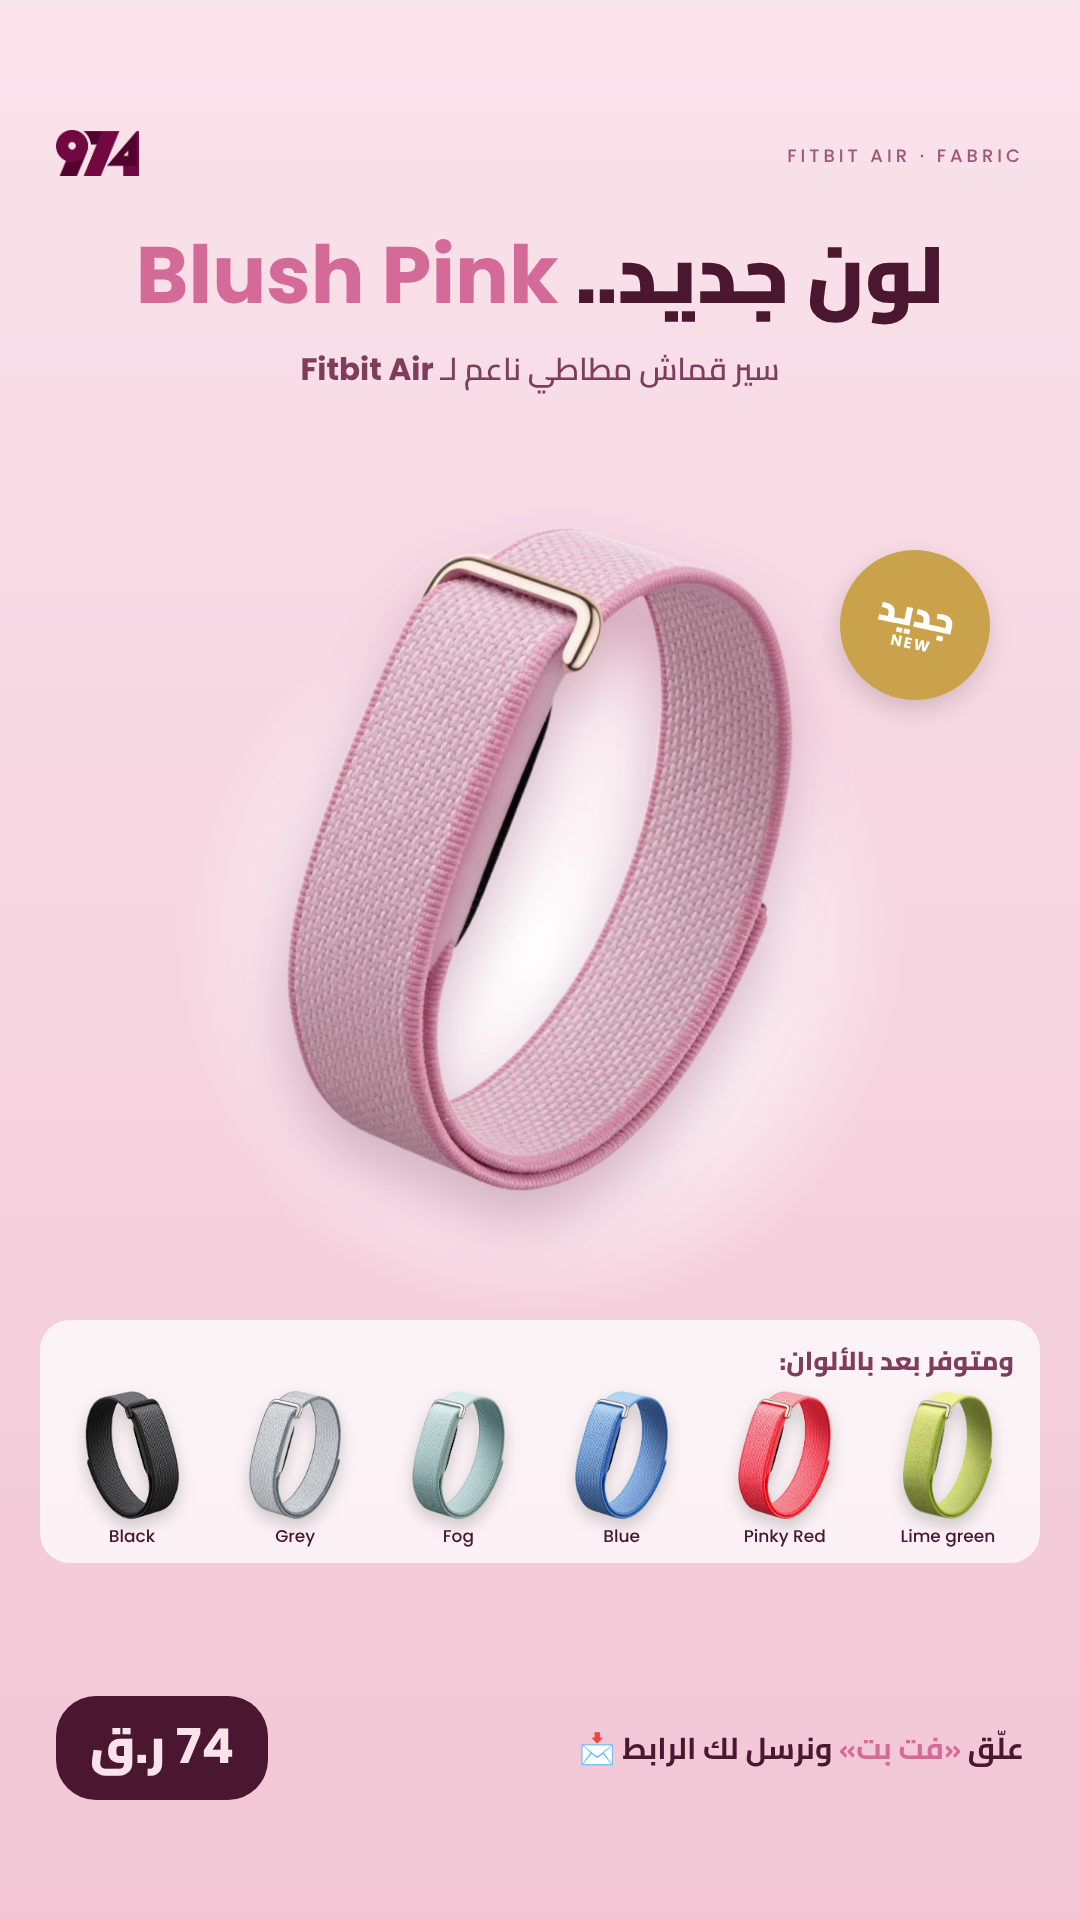
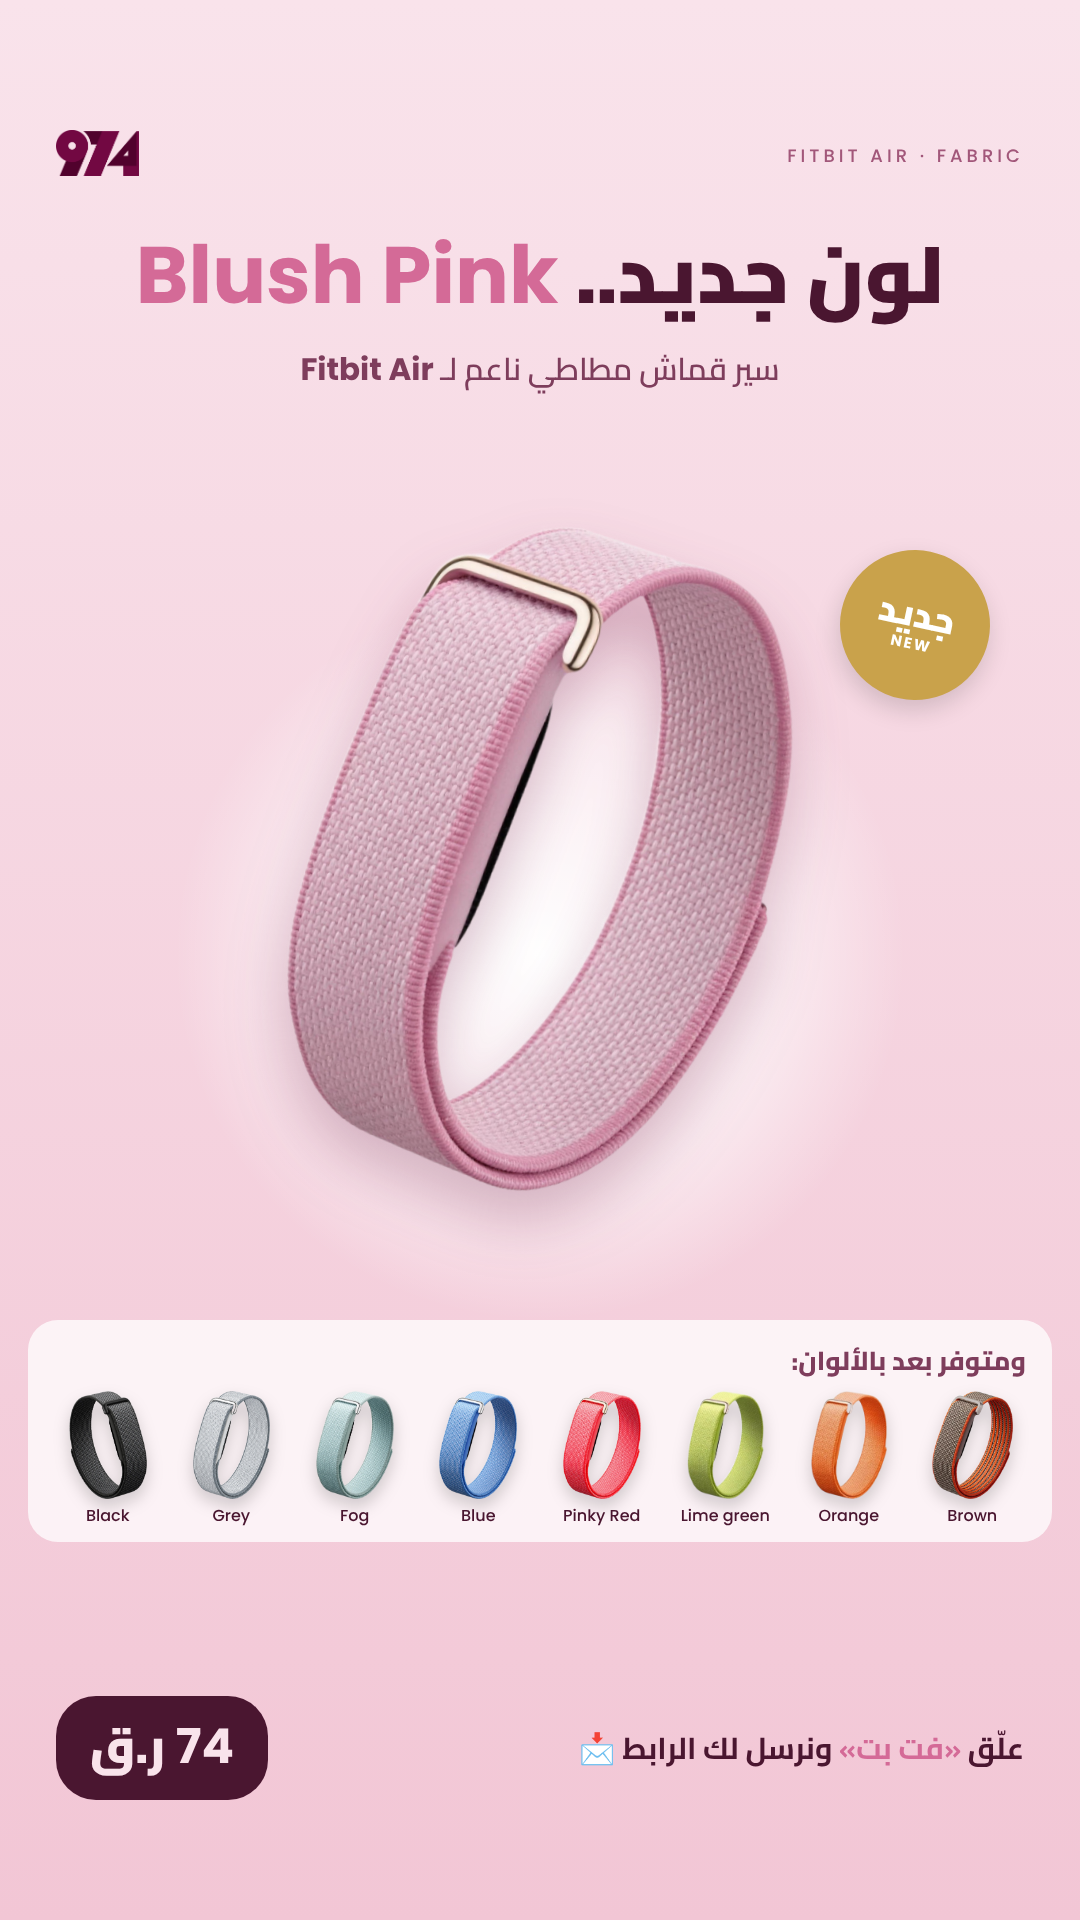
Fitbit fabric blush design: all in-stock colours
Claude-Session: https://claude.ai/code/session_01K6HDWNrArsGSJekW1VcEzV

Changed region(s): [[0.0, 0.6875, 0.9778, 0.8125]]

diff --git a/posts/2026-11/fitbit-fabric-blush/974-fitbit-fabric-blush-story.html b/posts/2026-11/fitbit-fabric-blush/974-fitbit-fabric-blush-story.html
@@ -15,12 +15,12 @@ h1 b{font-family:Poppins;font-weight:700;color:#D46A97}
 .hero{position:absolute;left:50%;top:520px;height:672.4px;transform:translateX(-50%) rotate(6deg);filter:drop-shadow(0 30px 28px rgba(110,30,70,.28))}
 .new{position:absolute;top:550px;right:90px;width:150px;height:150px;border-radius:50%;background:#C9A24B;color:#fff;display:flex;flex-direction:column;align-items:center;justify-content:center;transform:rotate(12deg);box-shadow:0 10px 24px rgba(0,0,0,.15)}
 .new b{font-weight:900;font-size:36px;line-height:1} .new s{text-decoration:none;font-family:Poppins;font-weight:700;font-size:15px;letter-spacing:2px}
-.strip{position:absolute;left:40px;right:40px;top:1320px;background:rgba(255,255,255,.75);border-radius:30px;padding:16px 18px 14px}
+.strip{position:absolute;left:28px;right:28px;top:1320px;background:rgba(255,255,255,.75);border-radius:30px;padding:16px 18px 14px}
 .strip h3{direction:rtl;text-align:right;font-weight:800;font-size:26px;margin:0 8px 6px;color:#7E3D5C}
 .row{display:flex;justify-content:space-between}
-.o{display:flex;flex-direction:column;align-items:center;width:148px}
-.o img{height:128px;max-width:138px;object-fit:contain;filter:drop-shadow(0 8px 8px rgba(0,0,0,.18))}
-.o span{font-family:Poppins;font-weight:500;font-size:17px;margin-top:4px;white-space:nowrap}
+.o{display:flex;flex-direction:column;align-items:center;width:126px}
+.o img{height:108px;max-width:118px;object-fit:contain;filter:drop-shadow(0 8px 8px rgba(0,0,0,.18))}
+.o span{font-family:Poppins;font-weight:500;font-size:16px;margin-top:4px;white-space:nowrap}
 .foot{position:absolute;left:56px;right:56px;bottom:120px;display:flex;justify-content:space-between;align-items:center;direction:rtl}
 .price{background:#4A1630;color:#F9E3EB;border-radius:40px;padding:4px 34px 10px;font-weight:900;font-size:48px}
 .price b{font-family:Poppins}
@@ -33,6 +33,6 @@ h1 b{font-family:Poppins;font-weight:700;color:#D46A97}
 <div class="disc"></div>
 <img class="hero" src="file:///home/claude/974-social/products/fitbit-fabric-blush/src/blush-crop.png">
 <div class="new"><b>جديد</b><s>NEW</s></div>
-<div class="strip"><h3>ومتوفر بعد بالألوان:</h3><div class="row"><div class="o"><img src="file:///home/claude/974-social/products/fitbit-fabric-blush/src/black-crop.png"><span>Black</span></div><div class="o"><img src="file:///home/claude/974-social/products/fitbit-fabric-blush/src/grey-crop.png"><span>Grey</span></div><div class="o"><img src="file:///home/claude/974-social/products/fitbit-fabric-blush/src/fog-crop.png"><span>Fog</span></div><div class="o"><img src="file:///home/claude/974-social/products/fitbit-fabric-blush/src/blue-crop.png"><span>Blue</span></div><div class="o"><img src="file:///home/claude/974-social/products/fitbit-fabric-blush/src/pinky-red-crop.png"><span>Pinky Red</span></div><div class="o"><img src="file:///home/claude/974-social/products/fitbit-fabric-blush/src/lime-crop.png"><span>Lime green</span></div></div></div>
+<div class="strip"><h3>ومتوفر بعد بالألوان:</h3><div class="row"><div class="o"><img src="file:///home/claude/974-social/products/fitbit-fabric-blush/src/black-crop.png"><span>Black</span></div><div class="o"><img src="file:///home/claude/974-social/products/fitbit-fabric-blush/src/grey-crop.png"><span>Grey</span></div><div class="o"><img src="file:///home/claude/974-social/products/fitbit-fabric-blush/src/fog-crop.png"><span>Fog</span></div><div class="o"><img src="file:///home/claude/974-social/products/fitbit-fabric-blush/src/blue-crop.png"><span>Blue</span></div><div class="o"><img src="file:///home/claude/974-social/products/fitbit-fabric-blush/src/pinky-red-crop.png"><span>Pinky Red</span></div><div class="o"><img src="file:///home/claude/974-social/products/fitbit-fabric-blush/src/lime-crop.png"><span>Lime green</span></div><div class="o"><img src="file:///home/claude/974-social/products/fitbit-fabric-blush/src/orange-crop.png"><span>Orange</span></div><div class="o"><img src="file:///home/claude/974-social/products/fitbit-fabric-blush/src/brown-crop.png"><span>Brown</span></div></div></div>
 <div class="foot"><div class="cta">علّق <em>«فت بت»</em> ونرسل لك الرابط 📩</div><div class="price"><b>74</b> ر.ق</div></div>
 </body></html>

diff --git a/posts/2026-11/fitbit-fabric-blush/974-fitbit-fabric-blush-post.html b/posts/2026-11/fitbit-fabric-blush/974-fitbit-fabric-blush-post.html
@@ -15,12 +15,12 @@ h1 b{font-family:Poppins;font-weight:700;color:#D46A97}
 .hero{position:absolute;left:50%;top:330px;height:524.8px;transform:translateX(-50%) rotate(6deg);filter:drop-shadow(0 30px 28px rgba(110,30,70,.28))}
 .new{position:absolute;top:360px;right:110px;width:150px;height:150px;border-radius:50%;background:#C9A24B;color:#fff;display:flex;flex-direction:column;align-items:center;justify-content:center;transform:rotate(12deg);box-shadow:0 10px 24px rgba(0,0,0,.15)}
 .new b{font-weight:900;font-size:36px;line-height:1} .new s{text-decoration:none;font-family:Poppins;font-weight:700;font-size:15px;letter-spacing:2px}
-.strip{position:absolute;left:40px;right:40px;top:955px;background:rgba(255,255,255,.75);border-radius:30px;padding:16px 18px 14px}
+.strip{position:absolute;left:28px;right:28px;top:955px;background:rgba(255,255,255,.75);border-radius:30px;padding:16px 18px 14px}
 .strip h3{direction:rtl;text-align:right;font-weight:800;font-size:22px;margin:0 8px 6px;color:#7E3D5C}
 .row{display:flex;justify-content:space-between}
-.o{display:flex;flex-direction:column;align-items:center;width:140px}
-.o img{height:120px;max-width:130px;object-fit:contain;filter:drop-shadow(0 8px 8px rgba(0,0,0,.18))}
-.o span{font-family:Poppins;font-weight:500;font-size:15px;margin-top:4px;white-space:nowrap}
+.o{display:flex;flex-direction:column;align-items:center;width:118px}
+.o img{height:100px;max-width:110px;object-fit:contain;filter:drop-shadow(0 8px 8px rgba(0,0,0,.18))}
+.o span{font-family:Poppins;font-weight:500;font-size:14px;margin-top:4px;white-space:nowrap}
 .foot{position:absolute;left:56px;right:56px;bottom:40px;display:flex;justify-content:space-between;align-items:center;direction:rtl}
 .price{background:#4A1630;color:#F9E3EB;border-radius:40px;padding:4px 34px 10px;font-weight:900;font-size:40px}
 .price b{font-family:Poppins}
@@ -33,6 +33,6 @@ h1 b{font-family:Poppins;font-weight:700;color:#D46A97}
 <div class="disc"></div>
 <img class="hero" src="file:///home/claude/974-social/products/fitbit-fabric-blush/src/blush-crop.png">
 <div class="new"><b>جديد</b><s>NEW</s></div>
-<div class="strip"><h3>ومتوفر بعد بالألوان:</h3><div class="row"><div class="o"><img src="file:///home/claude/974-social/products/fitbit-fabric-blush/src/black-crop.png"><span>Black</span></div><div class="o"><img src="file:///home/claude/974-social/products/fitbit-fabric-blush/src/grey-crop.png"><span>Grey</span></div><div class="o"><img src="file:///home/claude/974-social/products/fitbit-fabric-blush/src/fog-crop.png"><span>Fog</span></div><div class="o"><img src="file:///home/claude/974-social/products/fitbit-fabric-blush/src/blue-crop.png"><span>Blue</span></div><div class="o"><img src="file:///home/claude/974-social/products/fitbit-fabric-blush/src/pinky-red-crop.png"><span>Pinky Red</span></div><div class="o"><img src="file:///home/claude/974-social/products/fitbit-fabric-blush/src/lime-crop.png"><span>Lime green</span></div></div></div>
+<div class="strip"><h3>ومتوفر بعد بالألوان:</h3><div class="row"><div class="o"><img src="file:///home/claude/974-social/products/fitbit-fabric-blush/src/black-crop.png"><span>Black</span></div><div class="o"><img src="file:///home/claude/974-social/products/fitbit-fabric-blush/src/grey-crop.png"><span>Grey</span></div><div class="o"><img src="file:///home/claude/974-social/products/fitbit-fabric-blush/src/fog-crop.png"><span>Fog</span></div><div class="o"><img src="file:///home/claude/974-social/products/fitbit-fabric-blush/src/blue-crop.png"><span>Blue</span></div><div class="o"><img src="file:///home/claude/974-social/products/fitbit-fabric-blush/src/pinky-red-crop.png"><span>Pinky Red</span></div><div class="o"><img src="file:///home/claude/974-social/products/fitbit-fabric-blush/src/lime-crop.png"><span>Lime green</span></div><div class="o"><img src="file:///home/claude/974-social/products/fitbit-fabric-blush/src/orange-crop.png"><span>Orange</span></div><div class="o"><img src="file:///home/claude/974-social/products/fitbit-fabric-blush/src/brown-crop.png"><span>Brown</span></div></div></div>
 <div class="foot"><div class="cta">علّق <em>«فت بت»</em> ونرسل لك الرابط 📩</div><div class="price"><b>74</b> ر.ق</div></div>
 </body></html>

diff --git a/posts/2026-11/fitbit-fabric-blush/gen.py b/posts/2026-11/fitbit-fabric-blush/gen.py
@@ -2,12 +2,12 @@ import subprocess
 SP='/tmp/claude-0/-home-claude/bcc2c2d5-4d57-5df4-9795-f402b1a1cd9a/scratchpad'
 P='/home/claude/974-social/products/fitbit-fabric-blush/src/'
 LOGO='/home/claude/974-social/posts/2026-11/waterproof/src/mark-c.png'
-others=[('Black','black'),('Grey','grey'),('Fog','fog'),('Blue','blue'),('Pinky Red','pinky-red'),('Lime green','lime')]
+others=[('Black','black'),('Grey','grey'),('Fog','fog'),('Blue','blue'),('Pinky Red','pinky-red'),('Lime green','lime'),('Orange','orange'),('Brown','brown')]
 def page(W,H,story):
     hero=640 if not story else 820
     heroTop=330 if not story else 520
     strip_top=H-(395 if not story else 600)
-    sz=120 if not story else 128
+    sz=100 if not story else 108
     cards=''.join(f'<div class="o"><img src="file://{P}{f}-crop.png"><span>{n}</span></div>' for n,f in others)
     return f'''<!doctype html><html><head><meta charset="utf-8"><style>
 @font-face{{font-family:'Cairo';font-weight:400 900;src:url(file://{SP}/aw/fonts/cairo-SLXVc1nY6HkvangtZmpQdkhzfH5lkSscQyyS8p4_RHH1.woff2)}}
@@ -26,12 +26,12 @@ h1 b{{font-family:Poppins;font-weight:700;color:#D46A97}}
 .hero{{position:absolute;left:50%;top:{heroTop}px;height:{hero*0.82}px;transform:translateX(-50%) rotate(6deg);filter:drop-shadow(0 30px 28px rgba(110,30,70,.28))}}
 .new{{position:absolute;top:{heroTop+30}px;right:{110 if not story else 90}px;width:150px;height:150px;border-radius:50%;background:#C9A24B;color:#fff;display:flex;flex-direction:column;align-items:center;justify-content:center;transform:rotate(12deg);box-shadow:0 10px 24px rgba(0,0,0,.15)}}
 .new b{{font-weight:900;font-size:36px;line-height:1}} .new s{{text-decoration:none;font-family:Poppins;font-weight:700;font-size:15px;letter-spacing:2px}}
-.strip{{position:absolute;left:40px;right:40px;top:{strip_top}px;background:rgba(255,255,255,.75);border-radius:30px;padding:16px 18px 14px}}
+.strip{{position:absolute;left:28px;right:28px;top:{strip_top}px;background:rgba(255,255,255,.75);border-radius:30px;padding:16px 18px 14px}}
 .strip h3{{direction:rtl;text-align:right;font-weight:800;font-size:{22 if not story else 26}px;margin:0 8px 6px;color:#7E3D5C}}
 .row{{display:flex;justify-content:space-between}}
-.o{{display:flex;flex-direction:column;align-items:center;width:{sz+20}px}}
+.o{{display:flex;flex-direction:column;align-items:center;width:{sz+18}px}}
 .o img{{height:{sz}px;max-width:{sz+10}px;object-fit:contain;filter:drop-shadow(0 8px 8px rgba(0,0,0,.18))}}
-.o span{{font-family:Poppins;font-weight:500;font-size:{15 if not story else 17}px;margin-top:4px;white-space:nowrap}}
+.o span{{font-family:Poppins;font-weight:500;font-size:{14 if not story else 16}px;margin-top:4px;white-space:nowrap}}
 .foot{{position:absolute;left:56px;right:56px;bottom:{40 if not story else 120}px;display:flex;justify-content:space-between;align-items:center;direction:rtl}}
 .price{{background:#4A1630;color:#F9E3EB;border-radius:40px;padding:4px 34px 10px;font-weight:900;font-size:{40 if not story else 48}px}}
 .price b{{font-family:Poppins}}
